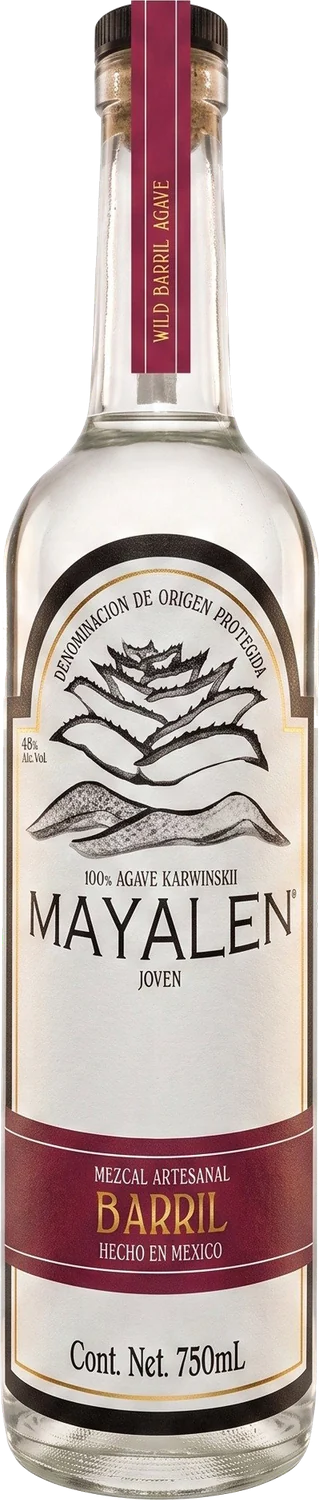
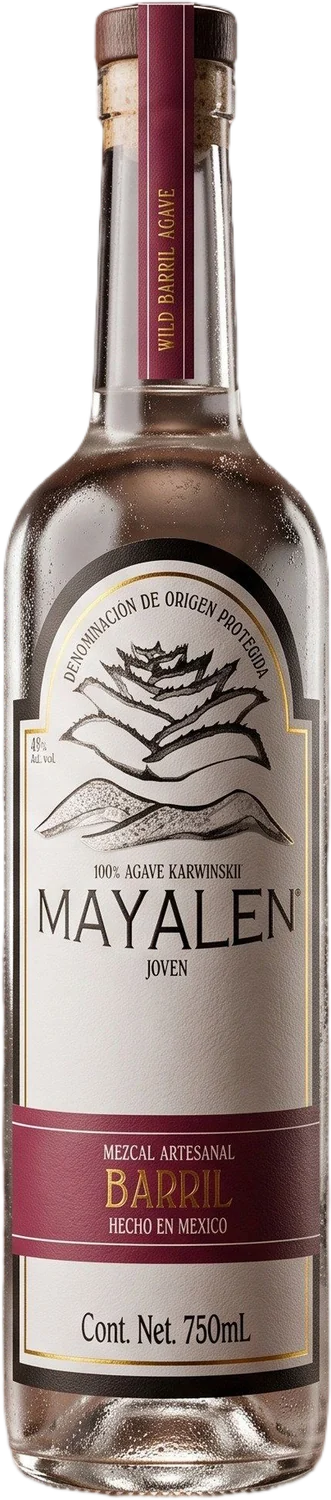
Collection: use Dark bottle set (translucent liquid) on plates; cache-bust v3

diff --git a/index.html b/index.html
@@ -160,7 +160,7 @@
     <span class="plate__ghost" aria-hidden="true">I</span>
     <div class="wrap plate__in">
       <div class="plate__stage reveal">
-        <img class="plate__bottle" src="assets/web/botella-cupreata.webp?v=2" alt="Botella Mayalen Cupreata" width="315" height="1500" loading="lazy" />
+        <img class="plate__bottle" src="assets/web/botella-cupreata.webp?v=3" alt="Botella Mayalen Cupreata" width="315" height="1500" loading="lazy" />
       </div>
       <div class="plate__desc reveal">
         <p class="plate__index"><span>01</span><span>/ 06</span></p>
@@ -186,7 +186,7 @@
     <span class="plate__ghost" aria-hidden="true">II</span>
     <div class="wrap plate__in">
       <div class="plate__stage reveal">
-        <img class="plate__bottle" src="assets/web/botella-tobala.webp?v=2" alt="Botella Mayalen Tobalá" width="321" height="1500" loading="lazy" />
+        <img class="plate__bottle" src="assets/web/botella-tobala.webp?v=3" alt="Botella Mayalen Tobalá" width="321" height="1500" loading="lazy" />
       </div>
       <div class="plate__desc reveal">
         <p class="plate__index"><span>02</span><span>/ 06</span></p>
@@ -212,7 +212,7 @@
     <span class="plate__ghost" aria-hidden="true">III</span>
     <div class="wrap plate__in">
       <div class="plate__stage reveal">
-        <img class="plate__bottle" src="assets/web/botella-barril.webp?v=2" alt="Botella Mayalen Barril" width="314" height="1500" loading="lazy" />
+        <img class="plate__bottle" src="assets/web/botella-barril.webp?v=3" alt="Botella Mayalen Barril" width="314" height="1500" loading="lazy" />
       </div>
       <div class="plate__desc reveal">
         <p class="plate__index"><span>03</span><span>/ 06</span></p>
@@ -238,7 +238,7 @@
     <span class="plate__ghost" aria-hidden="true">IV</span>
     <div class="wrap plate__in">
       <div class="plate__stage reveal">
-        <img class="plate__bottle" src="assets/web/botella-coyote.webp?v=2" alt="Botella Mayalen Coyote" width="314" height="1500" loading="lazy" />
+        <img class="plate__bottle" src="assets/web/botella-coyote.webp?v=3" alt="Botella Mayalen Coyote" width="314" height="1500" loading="lazy" />
       </div>
       <div class="plate__desc reveal">
         <p class="plate__index"><span>04</span><span>/ 06</span></p>
@@ -264,7 +264,7 @@
     <span class="plate__ghost" aria-hidden="true">V</span>
     <div class="wrap plate__in">
       <div class="plate__stage reveal">
-        <img class="plate__bottle" src="assets/web/botella-cuishe.webp?v=2" alt="Botella Mayalen Cuishe" width="314" height="1500" loading="lazy" />
+        <img class="plate__bottle" src="assets/web/botella-cuishe.webp?v=3" alt="Botella Mayalen Cuishe" width="314" height="1500" loading="lazy" />
       </div>
       <div class="plate__desc reveal">
         <p class="plate__index"><span>05</span><span>/ 06</span></p>
@@ -290,7 +290,7 @@
     <span class="plate__ghost" aria-hidden="true">VI</span>
     <div class="wrap plate__in">
       <div class="plate__stage reveal">
-        <img class="plate__bottle" src="assets/web/botella-guerrero.webp?v=2" alt="Botella Mayalen Guerrero" width="317" height="1500" loading="lazy" />
+        <img class="plate__bottle" src="assets/web/botella-guerrero.webp?v=3" alt="Botella Mayalen Guerrero" width="317" height="1500" loading="lazy" />
       </div>
       <div class="plate__desc reveal">
         <p class="plate__index"><span>06</span><span>/ 06</span></p>
